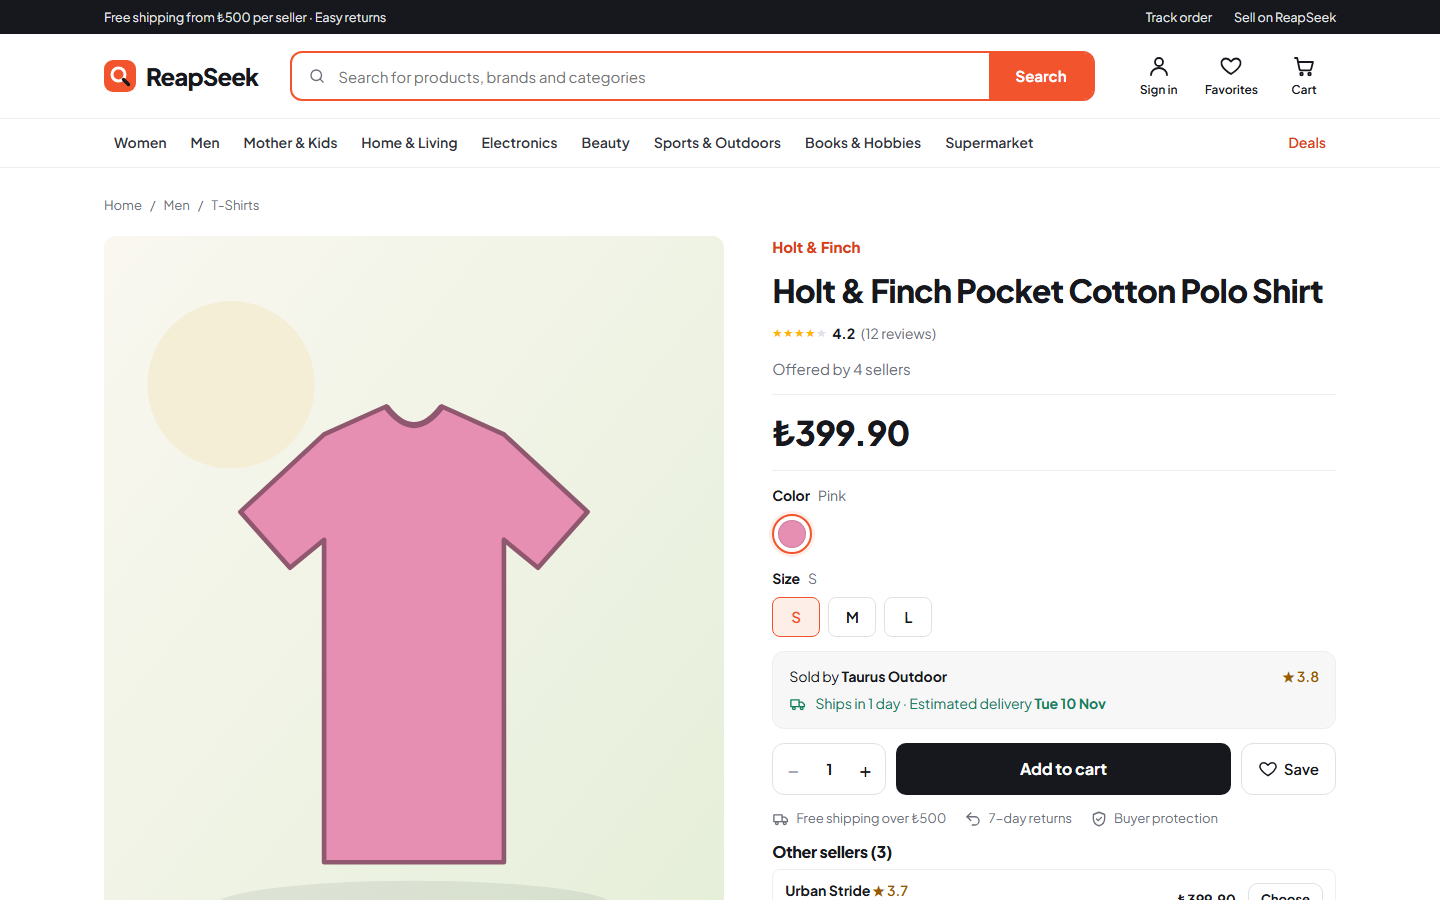
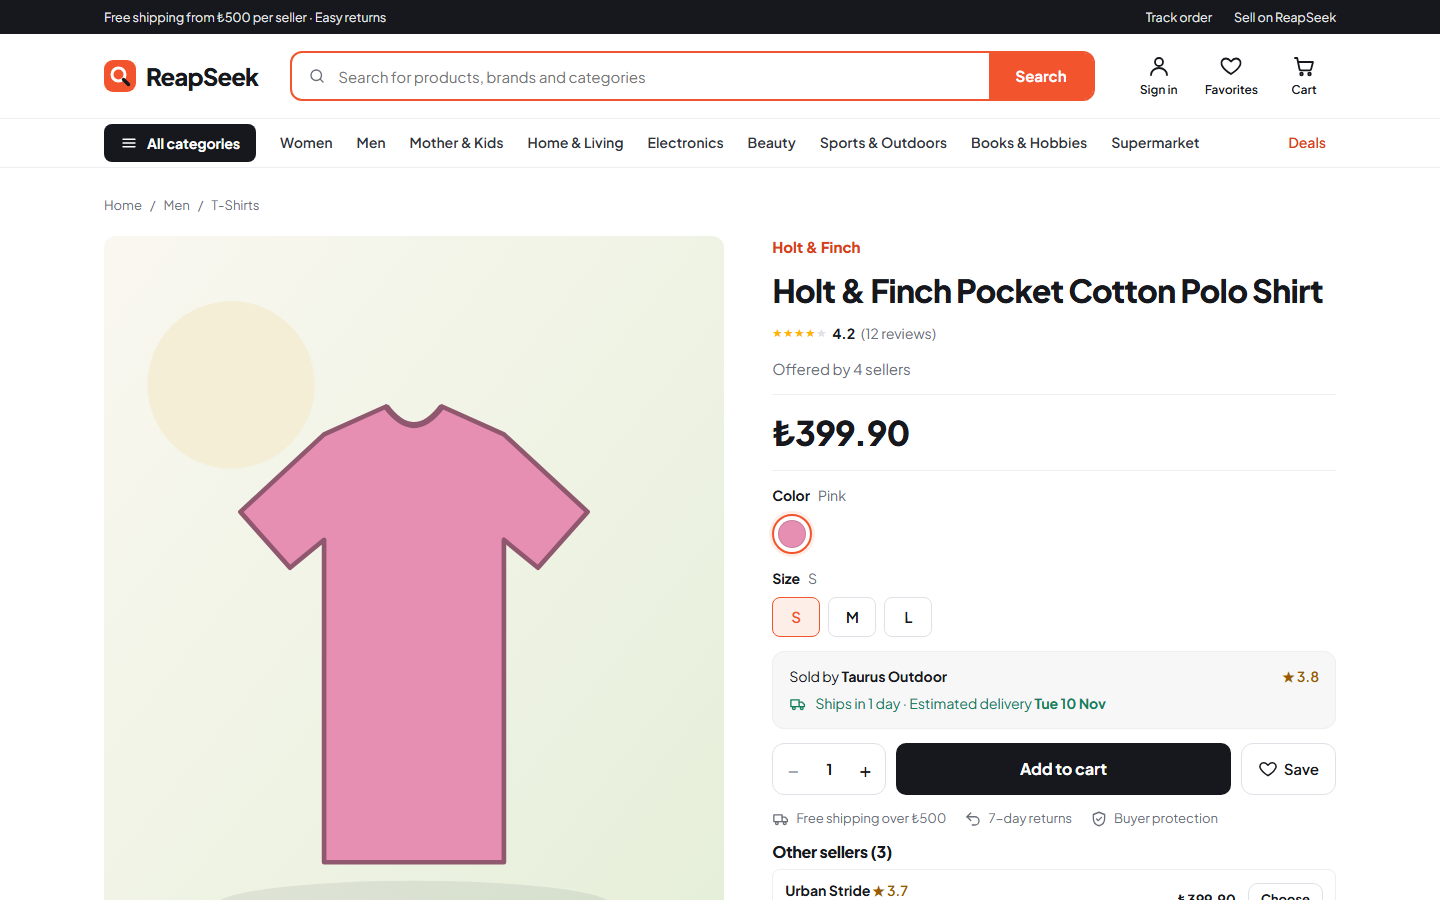
Document the category menu in the README and refresh storefront screenshots

Changed region(s): [[0.0625, 0.1244, 0.75, 0.1867], [0.7812, 0.1556, 0.8438, 0.1867]]

diff --git a/README.md b/README.md
@@ -157,10 +157,15 @@ The API, the worker and the payment sandbox export traces, metrics and logs with
 
 Both front ends share one visual language: a white surface, a coral accent and the Plus Jakarta Sans typeface, served from the app itself (no font CDN). Colors come from design tokens (`storefront/src/styles/tokens.css`, the back office's `:root` variables), so no component hard-codes a color.
 
-- **Storefront:** a header with a framed search box, a category bar with mega menus (one open at a time, short open and close delays, closed by Esc, focus loss or navigation, reachable with the arrow keys), a home page built from real discounted products, product cards with brand, rating, price and seller count, and a dark footer.
+- **Storefront:** a header with a framed search box, a category bar, a home page built from real discounted products, product cards with brand, rating, price and seller count, and a dark footer.
+- **Category menu:** an *All categories* button opens a panel with every department on the left; pointing at one shows its subcategories, its most popular brands and its biggest discount on the right. Next to the button, each department in the bar opens its own vertical list of subcategories on hover. Only one menu is open at a time, with short open and close delays; Esc, focus loss and navigation close it, and the arrow keys move into it. Brands and the discount come from the search index and are cached for five minutes; the subcategory links are in the server-rendered HTML.
 - **Responsive:** breakpoints at 1100, 959 and 640 pixels. On phones the storefront moves categories into a drawer, and the back office turns its sidebar into a drawer that closes on navigation and Esc; wide tables scroll inside their card. No page scrolls sideways at 390, 820 or 1440 pixels.
 
 ![Home page](docs/images/storefront-home.png)
+
+| All categories | A department in the bar |
+|---|---|
+| ![All categories panel with departments, subcategories, popular brands and a deal](docs/images/storefront-menu-all.png) | ![Vertical subcategory list under Women](docs/images/storefront-menu-department.png) |
 
 ![On a phone: home page, product page and the seller center menu](docs/images/storefront-mobile.png)
 
